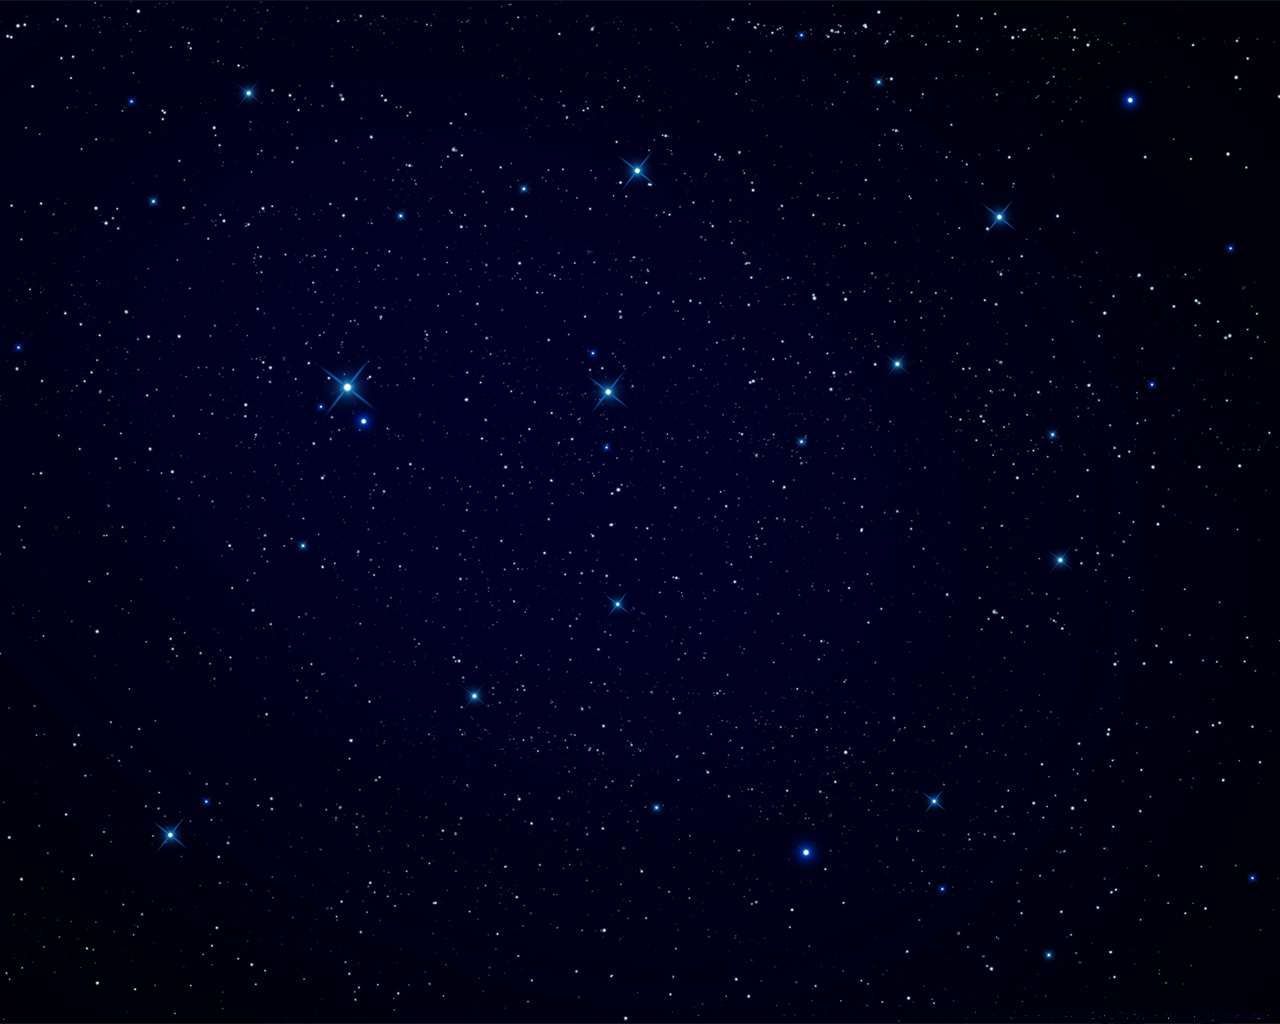
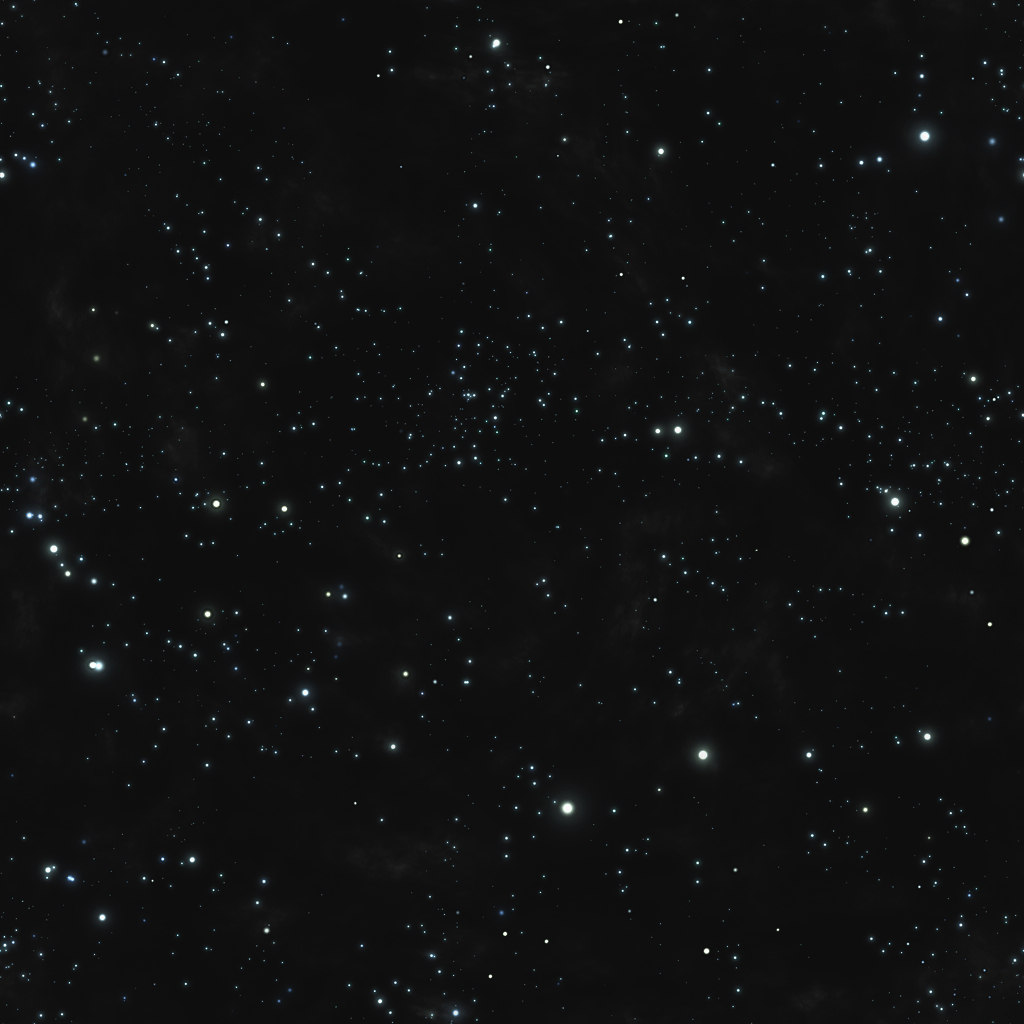
Change background and create the real amount of player

diff --git a/src/rtype/server.cpp b/src/rtype/server.cpp
@@ -17,28 +17,28 @@ static const std::chrono::milliseconds g_serverPacketRate(16);
 void  runServer(const std::vector<std::string>& clientsIps,
                 const std::string& port)
 {
+  int   playerIdx = 0;
+  float playerSpacing = GameState::WINDOW_HEIGHT / static_cast<float>(clientsIps.size());
   std::vector<network::Addr> clients;
-
-  for (auto& addr : clientsIps) {
-    log::debug  << "add client with addr " << addr << log::endl;
-    clients.push_back(network::Addr(addr, "4244", "UDP"));
-  }
-
   std::vector<Player*> players;
   std::shared_ptr<UnitPool> pool = std::shared_ptr<UnitPool>(new SUnitPool());
-  for (int i = 0; i < 4; i++)
-  {
+
+  for (auto& addr : clientsIps) {
     Player *player = pool->get<Player>();
 
     if (player == nullptr) {
       log::err << "Could not create the players" << log::endl;
       return;
     }
-    player->setId(i);
-    player->setPos(Vector2D(0.1f, 0.1f * (float)(i + 1)));
+    player->setId(playerIdx);
+    player->setPos(Vector2D(0.1f, (((playerSpacing * static_cast<float>(playerIdx + 1)) -
+                                   (playerSpacing / 2.f))) / GameState::WINDOW_HEIGHT));
     player->setDir(Vector2D(0.f, 0.f));
     player->setFireFrequence(std::chrono::milliseconds(200));
     players.push_back(player);
+    log::debug  << "add client with addr " << addr << log::endl;
+    clients.push_back(network::Addr(addr, "4244", "UDP"));
+    playerIdx++;
   }
 
   // START OF THE REAL LOOP
@@ -83,12 +83,12 @@ int     main(int argc, char *argv[])
 {
   std::vector<std::string>  clients;
 
-  clients.push_back("192.168.1.32");
-  clients.push_back("10.23.98.230");
+  //clients.push_back("192.168.1.32");
+  //clients.push_back("10.23.98.230");
   clients.emplace_back("10.23.99.201");
   clients.emplace_back("10.23.99.200");
   clients.emplace_back("10.23.98.230");
-  clients.push_back("10.23.98.165");
+  //clients.push_back("10.23.98.165");
   runServer(clients, "4242");
   return EXIT_SUCCESS;
 }
